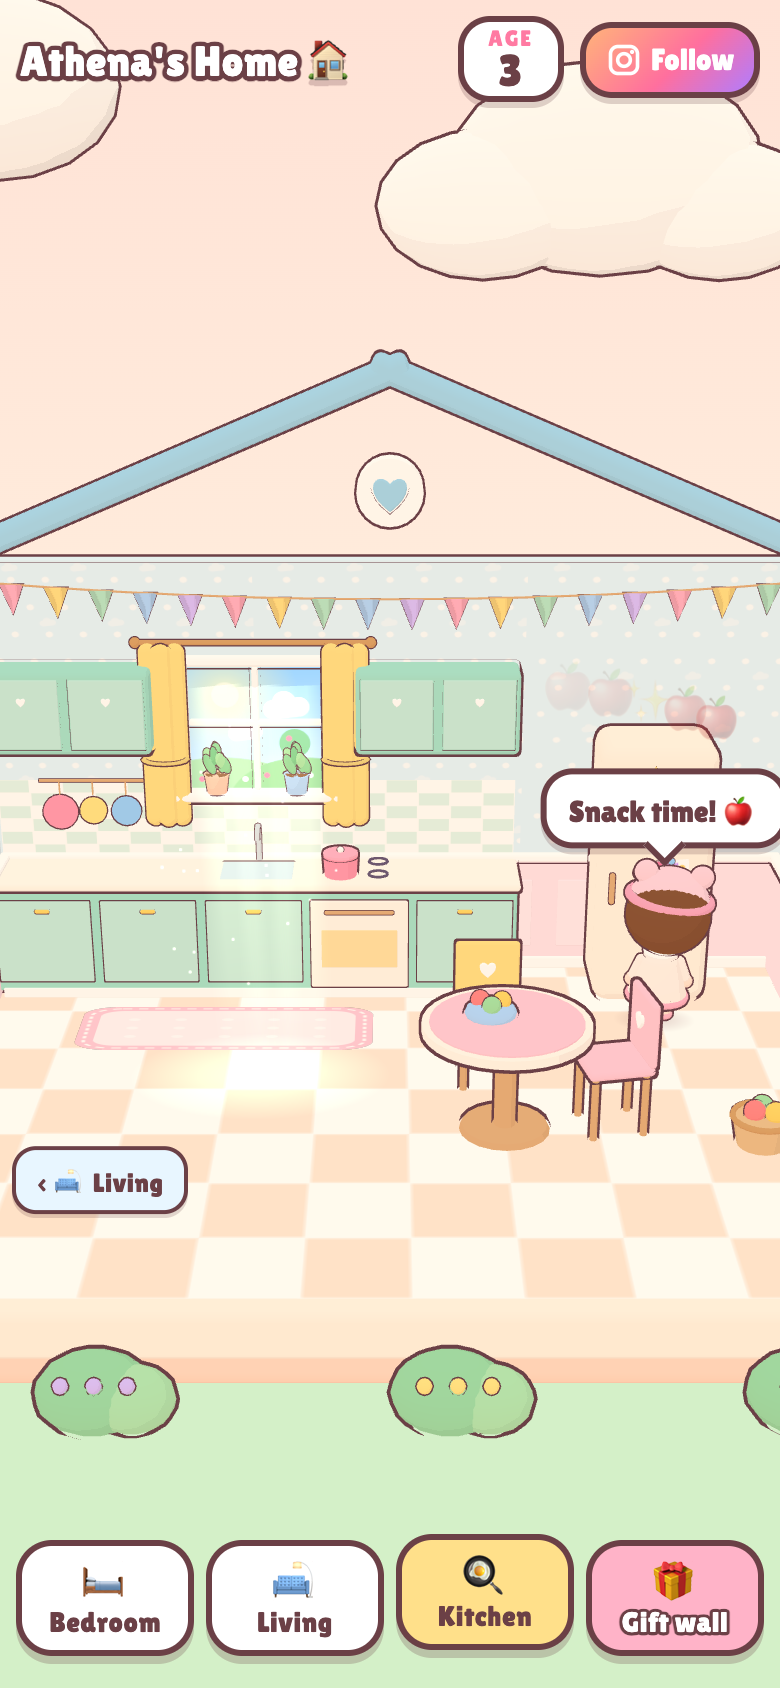
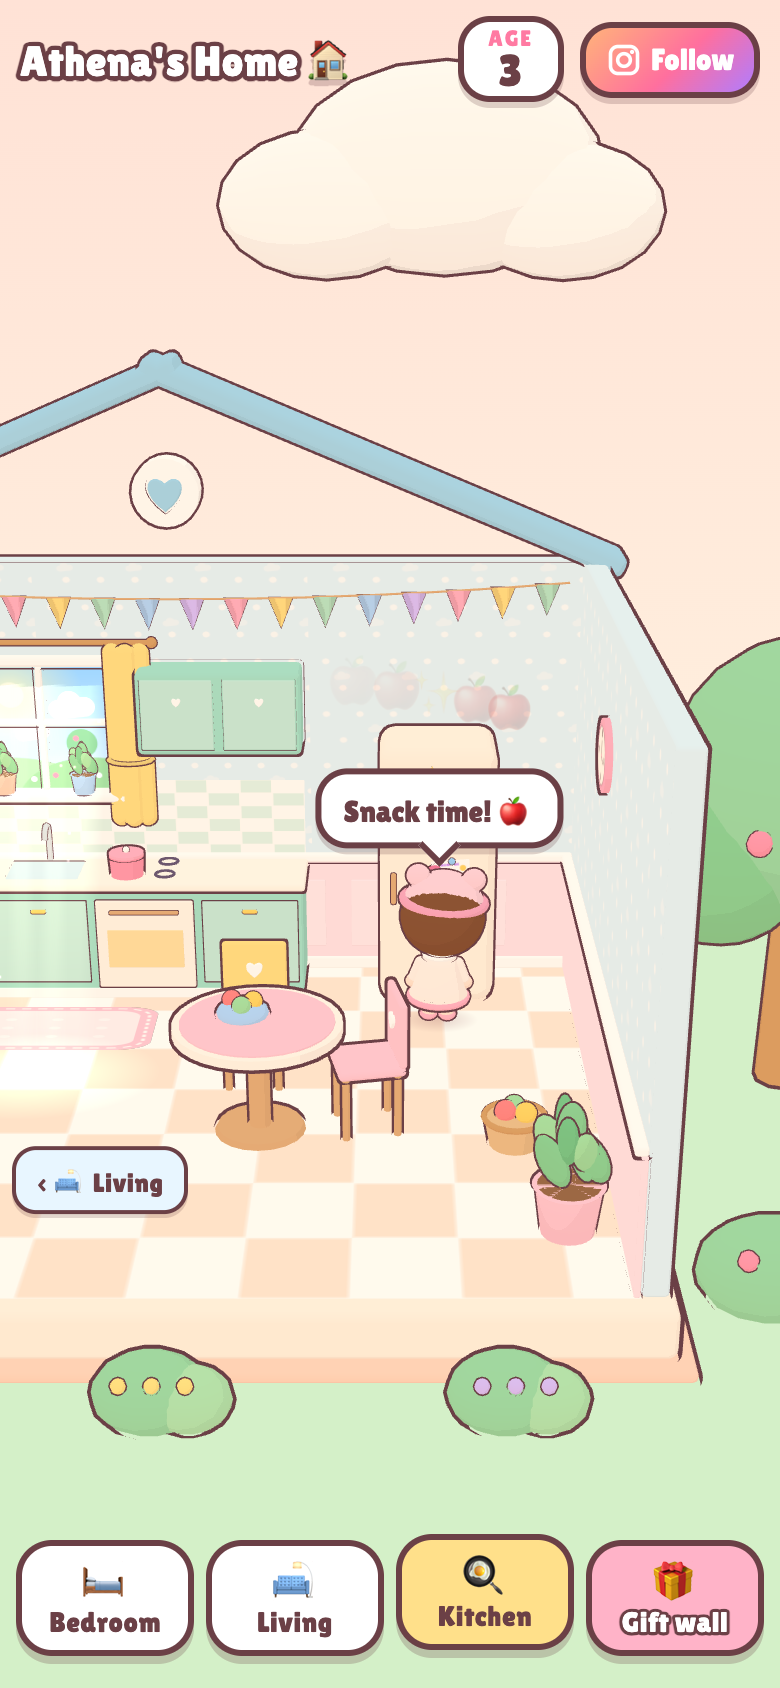
Camera follows Athena when she walks (phone), room buttons walk with her

diff --git a/src/main.js b/src/main.js
@@ -266,7 +266,12 @@ async function start() {
       }
       // camera follows her when she walks into another room
       const rid = roomAtX(a.position.x);
-      if (walker.follow && rid === walker.dest && rid !== current && !focused) goRoom(rid);
+      if (walker.follow && rid !== current && !focused) {
+        // she crossed a doorway: make that room "current" without a camera jump (the pan carries on)
+        const dx = roomX(rid) - roomX(current);
+        setActive(rid); cam.tx += dx; pan.x -= dx;
+        if (tween) { tween.from.tx += dx; tween.to.tx += dx; }
+      }
     } else if (walker.face) {
       wantYaw = Math.atan2(walker.face[0] - a.position.x, walker.face[1] - a.position.z);
     } else {
@@ -282,7 +287,15 @@ async function start() {
   function walkToRoom(id) {
     const r = house.rooms.find((x) => x.room.id === id);
     const spot = r.room.standAt || [0.3, 0.7];
-    walkTo(r.x + spot[0], spot[1], { follow: false });
+    walkTo(r.x + spot[0], spot[1], { follow: true });
+  }
+  // room buttons / door chips: Athena walks there and the camera walks with her
+  function travel(id) {
+    if (!athenaP) { goRoom(id); return; }
+    const here = roomAtX(athenaP.obj.position.x);
+    if (here === id && current === id && !focused) { walkToRoom(id); return; }
+    goRoom(here); // look at her first (also closes any item view)
+    walkToRoom(id);
   }
 
   // ----- labels (DOM chips that follow items and doors) -----
@@ -306,7 +319,7 @@ async function start() {
         const d = document.createElement('div');
         d.className = 'chip door';
         d.textContent = side > 0 ? `${to.short || to.name} ${to.emoji || ''} ›` : `‹ ${to.emoji || ''} ${to.short || to.name}`;
-        d.addEventListener('click', (ev) => { ev.stopPropagation(); goRoom(to.id); walkToRoom(to.id); });
+        d.addEventListener('click', (ev) => { ev.stopPropagation(); travel(to.id); });
         labels.append(d);
         doorChips.push({ d, from: from.id, pos, side });
       }
@@ -321,7 +334,7 @@ async function start() {
     b.innerHTML = `<span class="em"></span><span class="nm"></span>`;
     b.querySelector('.em').textContent = hr.room.emoji || '🏠';
     b.querySelector('.nm').textContent = hr.room.short || hr.room.name;
-    b.onclick = () => { closeSheets(true); goRoom(hr.room.id); walkToRoom(hr.room.id); };
+    b.onclick = () => { closeSheets(true); travel(hr.room.id); };
     nav.append(b);
   }
   const gw = document.createElement('button');
@@ -333,6 +346,25 @@ async function start() {
   // ---------------- camera ----------------
   const cam = { tx: 0, ty: 1.3, tz: -0.4, dist: 10, yaw: 0, pitch: 0.2, off: 0 };
   let tween = null;
+  // camera pan that keeps Athena on screen (phones show only part of a room)
+  const pan = { x: 0 };
+  const roomX = (id) => (house.rooms.find((r) => r.room.id === id) || house.rooms[0]).x;
+  function stepPan(dt) {
+    if (!athenaP || !current) return;
+    let want = 0;
+    if (!focused && (!tween || walker.path)) {
+      const ax = athenaP.obj.position.x - roomX(current);
+      const portrait = camera.aspect < 0.85;
+      // how far the camera may slide from the room centre: phones about to the walls, desktop shows the whole room
+      const lim = walker.path && walker.follow ? house.W / 2 + house.T : (portrait ? house.W / 2 - 1.4 : 0);
+      // only when she is in the room we are looking at (or walking with the camera)
+      const inRoom = Math.abs(ax) < house.W / 2 + house.T / 2;
+      if ((walker.path && walker.follow) || (!walker.path && inRoom)) want = THREE.MathUtils.clamp(ax, -lim, lim);
+    }
+    pan.x += (want - pan.x) * Math.min(1, dt * (walker.path ? 4 : 2.5));
+  }
+  // fold the pan into the camera before a tween so nothing jumps
+  function bakePan() { cam.tx += pan.x; pan.x = 0; }
   const user = { yaw: 0, pitch: 0, zoom: 1 };
   let current = null, focused = null;
 
@@ -352,6 +384,7 @@ async function start() {
     return { tx: wp.x, ty: wp.y, tz: wp.z, dist: portrait ? 5.0 : 4.6, yaw: e.r.room.id === current ? cam.yaw * 0.4 : 0, pitch: 0.22, off: portrait ? 0.2 : 0.12 };
   }
   function tweenTo(v, dur = 1.0) {
+    bakePan();
     tween = { from: { ...cam }, to: v, t: 0, dur };
   }
   function setActive(id) {
@@ -362,7 +395,7 @@ async function start() {
     focused = null; user.yaw = 0; user.pitch = 0; user.zoom = 1;
     setActive(id);
     const v = roomView(id);
-    if (instant) Object.assign(cam, v); else tweenTo(v);
+    if (instant) { pan.x = 0; Object.assign(cam, v); } else tweenTo(v);
   }
   function focusItem(id) {
     const e = itemObjs.find((x) => x.it.id === id);
@@ -387,13 +420,14 @@ async function start() {
   resize();
 
   function applyCam() {
+    const tx = cam.tx + pan.x;
     const yaw = cam.yaw + user.yaw, pitch = THREE.MathUtils.clamp(cam.pitch + user.pitch, -0.05, 1.4), dist = cam.dist * user.zoom;
     camera.position.set(
-      cam.tx + Math.sin(yaw) * Math.cos(pitch) * dist,
+      tx + Math.sin(yaw) * Math.cos(pitch) * dist,
       cam.ty + Math.sin(pitch) * dist,
       cam.tz + Math.cos(yaw) * Math.cos(pitch) * dist);
     $('resetview').hidden = Math.abs(user.yaw) < 0.02 && Math.abs(user.pitch) < 0.02 && Math.abs(user.zoom - 1) < 0.02;
-    camera.lookAt(cam.tx, cam.ty, cam.tz);
+    camera.lookAt(tx, cam.ty, cam.tz);
     // shift the picture up when the card covers the bottom of the screen
     const w = renderer.domElement.width, h = renderer.domElement.height;
     if (Math.abs(cam.off) > 0.001) camera.setViewOffset(w, h, 0, h * cam.off, w, h); else camera.clearViewOffset();
@@ -460,7 +494,7 @@ async function start() {
   window.addEventListener('keydown', (e) => {
     if (e.key === 'Escape') closeSheets(true);
     const i = house.rooms.findIndex((r) => r.room.id === current);
-    const go = (id) => { goRoom(id); walkToRoom(id); };
+    const go = (id) => travel(id);
     if (e.key === 'ArrowRight' && i < house.rooms.length - 1) go(house.rooms[i + 1].room.id);
     if (e.key === 'ArrowLeft' && i > 0) go(house.rooms[i - 1].room.id);
   });
@@ -570,7 +604,7 @@ async function start() {
       const [a, b] = o.userData.door;
       const to = current === a ? b : a;
       closeSheets(true);
-      goRoom(to); walkToRoom(to);
+      travel(to);
       return;
     }
     if (o.userData.person) {
@@ -647,8 +681,9 @@ async function start() {
       for (const key of Object.keys(tween.to)) cam[key] = tween.from[key] + (tween.to[key] - tween.from[key]) * k;
       if (tween.t >= 1) tween = null;
     }
-    applyCam();
     stepWalker(dt, t);
+    stepPan(dt);
+    applyCam();
     for (let i = anims.length - 1; i >= 0; i--) if (anims[i](t)) anims.splice(i, 1);
     if (athenaP && !say.classList.contains('hidden')) {
       if (t > sayUntil) say.classList.add('hidden');
@@ -685,7 +720,7 @@ async function start() {
   requestAnimationFrame(frame);
   setTimeout(() => $('loader').classList.add('done'), 200);
   window.__ready = true;
-  window.__app = { focusItem, goRoom, itemObjs, camera, walkTo, touchTargets, touchThing, user, whatIs, walker, athena: athenaP && athenaP.obj, nav: floorMap, look: (x, y, z, d, yaw = 0, pitch = 0.15) => { tween = null; Object.assign(cam, { tx: x, ty: y, tz: z, dist: d, yaw, pitch, off: 0 }); } };
+  window.__app = { focusItem, goRoom, itemObjs, camera, walkTo, touchTargets, touchThing, user, whatIs, walker, athena: athenaP && athenaP.obj, pan, current: () => current, nav: floorMap, look: (x, y, z, d, yaw = 0, pitch = 0.15) => { tween = null; pan.x = 0; Object.assign(cam, { tx: x, ty: y, tz: z, dist: d, yaw, pitch, off: 0 }); } };
   // open an item straight from a link: ?item=glitter-unicorn
   const q = new URLSearchParams(location.search).get('item');
   if (q) setTimeout(() => focusItem(q), 400);
